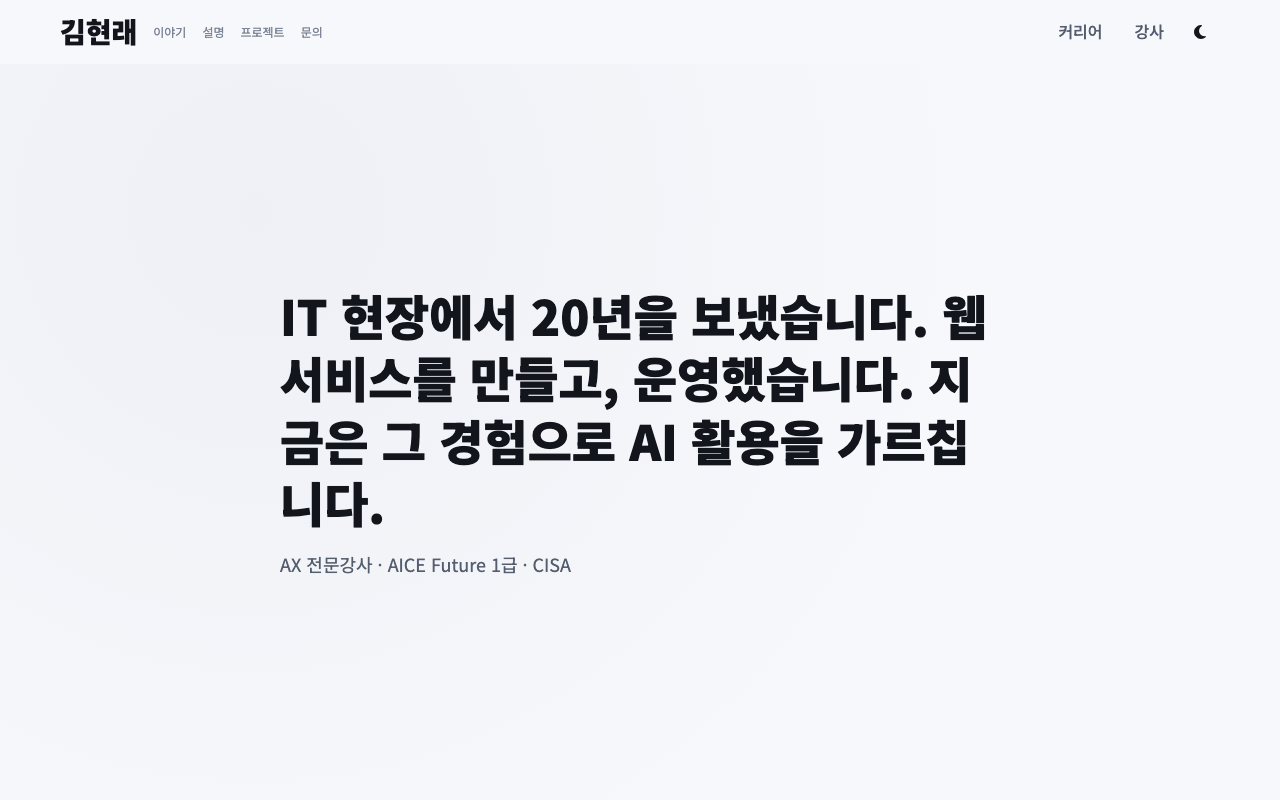
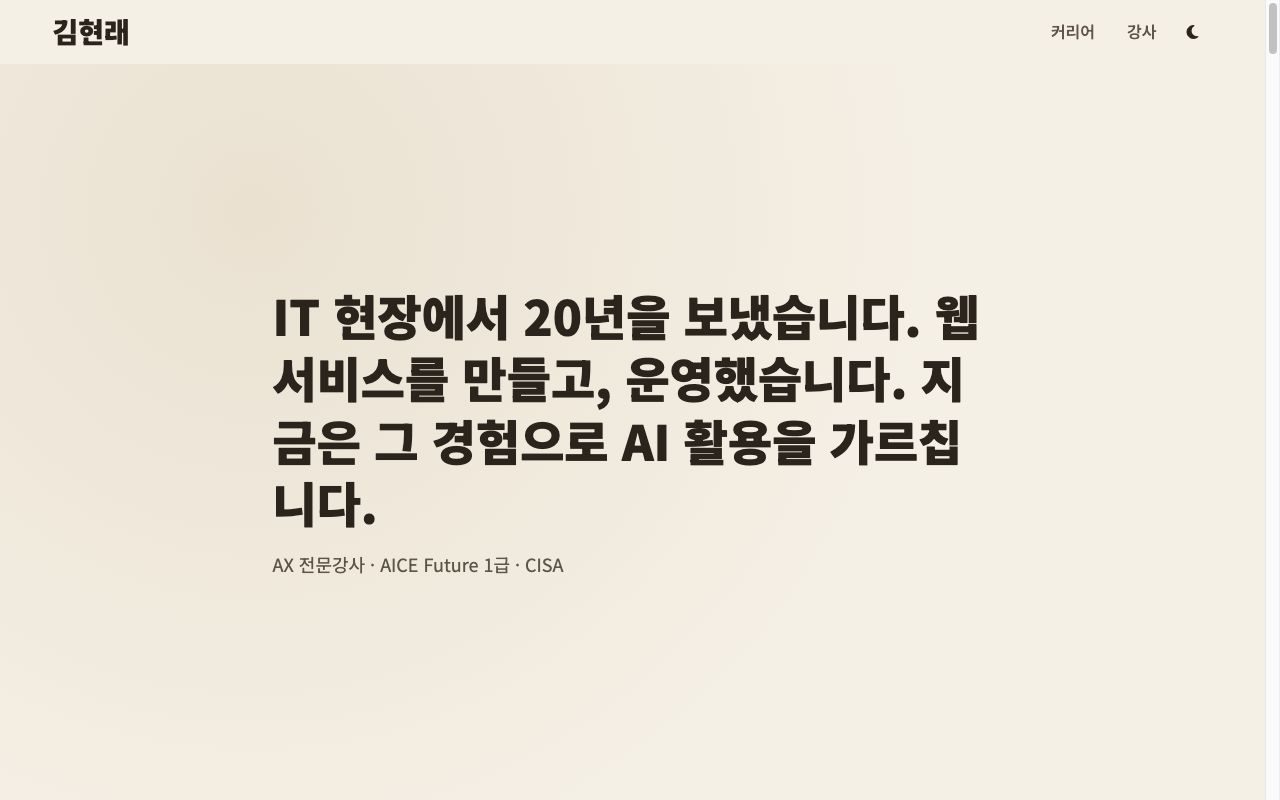
Refresh theme assets and documentation

diff --git a/SPEC.md b/SPEC.md
@@ -32,6 +32,12 @@
 - 저장소 링크 (개발자 포트폴리오가 아님). 링크는 열리는 데모만.
 - 인라인 `style="..."`, HTML `onclick` 속성, `var`
 
+**디자인 토큰과 테마**
+- `:root`는 다크 테마의 기본값이며, `[data-theme="light"]`가 라이트 테마를
+  덮어쓴다. 토글 선택값은 `localStorage`에 저장한다.
+- 팔레트의 강조색은 인디고가 아니라 앰버 계열이다. 기본 강조색은 `#c9a227`,
+  강한 강조색과 파비콘은 `#d9a441`을 사용한다.
+
 ---
 
 ## 2. 섹션 구성
@@ -127,12 +133,13 @@ science-qbank-v2)를 골라 `js/data/projects.js`로 변환해 사용.
 ### 전역
 | 기능 | 사양 |
 |---|---|
-| 다크모드 토글 | `[data-theme="dark"]`, localStorage 저장 |
+| 테마 토글 | `:root` 다크 / `[data-theme="light"]` 라이트, localStorage 저장 |
 | 햄버거 메뉴 | 768px 미만에서 노출, `classList.toggle` |
 | 부드러운 스크롤 | 네비 클릭 시 해당 섹션으로 |
 | 스크롤탑 버튼 | 300px 이상에서 노출 (README에 명시) |
 | 네비 배경 변경 | 60px 이상에서 전환 (README에 명시) |
 | 등장 애니메이션 | IntersectionObserver, threshold 0.2 (README에 명시) |
+| 홈 섹션 앵커 | 마크업에는 유지하되 평소 화면 밖에 배치하고, 키보드 포커스에서만 고정 패널로 표시. `display: none`/`visibility: hidden`은 사용하지 않으며 레이아웃을 밀지 않는다. 모바일 햄버거 메뉴도 동일하다. |
 
 ### 섹션별
 - hero: 문장 페이드업. (보너스로 타이핑 효과 검토)
@@ -262,7 +269,7 @@ README.md           ← 오케스트레이터
 - [ ] 시맨틱 태그: header, nav, main, section, article, footer
 - [ ] 모든 img에 의미 있는 alt
 - [ ] label과 input이 for-id로 연결
-- [ ] CSS 변수(:root) + 다크모드 변수 별도 정의
+- [ ] CSS 변수(`:root` 다크 기본값 + `[data-theme="light"]` 라이트 덮어쓰기) 정의
 - [ ] 네비 Flexbox, work 카드 Grid (auto-fit, minmax)
 - [ ] 모바일 퍼스트, 브레이크포인트 768 / 1024
 - [ ] JS는 defer로 연결, const/let만 사용
@@ -275,4 +282,4 @@ README.md           ← 오케스트레이터
 - [ ] 폼 필수값·이메일 형식 검증, preventDefault, 성공 메시지
 - [ ] GitHub Pages 배포, 배포 URL에서 전 기능 동작
 - [ ] README: 프로젝트 설명, 사용 기술, 배포 URL, 스크린샷, 임계값 3종 명시
-- [ ] 제출용 스크린샷 3종 (데스크톱 / 모바일 / 다크모드)
+- [ ] 제출용 스크린샷 3종 (데스크톱 다크 / 모바일 다크 / 라이트 모드)

diff --git a/README.md b/README.md
@@ -55,7 +55,7 @@ Modules)만으로 구현했습니다.
 MyPage/
 ├─ index.html          # 시맨틱 마크업. 콘텐츠는 없고 각 섹션의 마운트 지점만 정의
 ├─ css/
-│  ├─ tokens.css        # 디자인 토큰 — :root(다크) / [data-theme="light"](라이트)
+│  ├─ tokens.css        # 디자인 토큰 — :root(다크 기본) / [data-theme="light"](라이트), 앰버 강조색
 │  ├─ base.css          # 리셋, 접근성 유틸리티, 등장 애니메이션 초기 상태(.reveal)
 │  ├─ layout.css        # 헤더·네비·컨테이너 등 전역 레이아웃, 반응형 브레이크포인트
 │  └─ sections.css      # 섹션별 컴포넌트 스타일(카드, 폼, 상태 패널 등)
